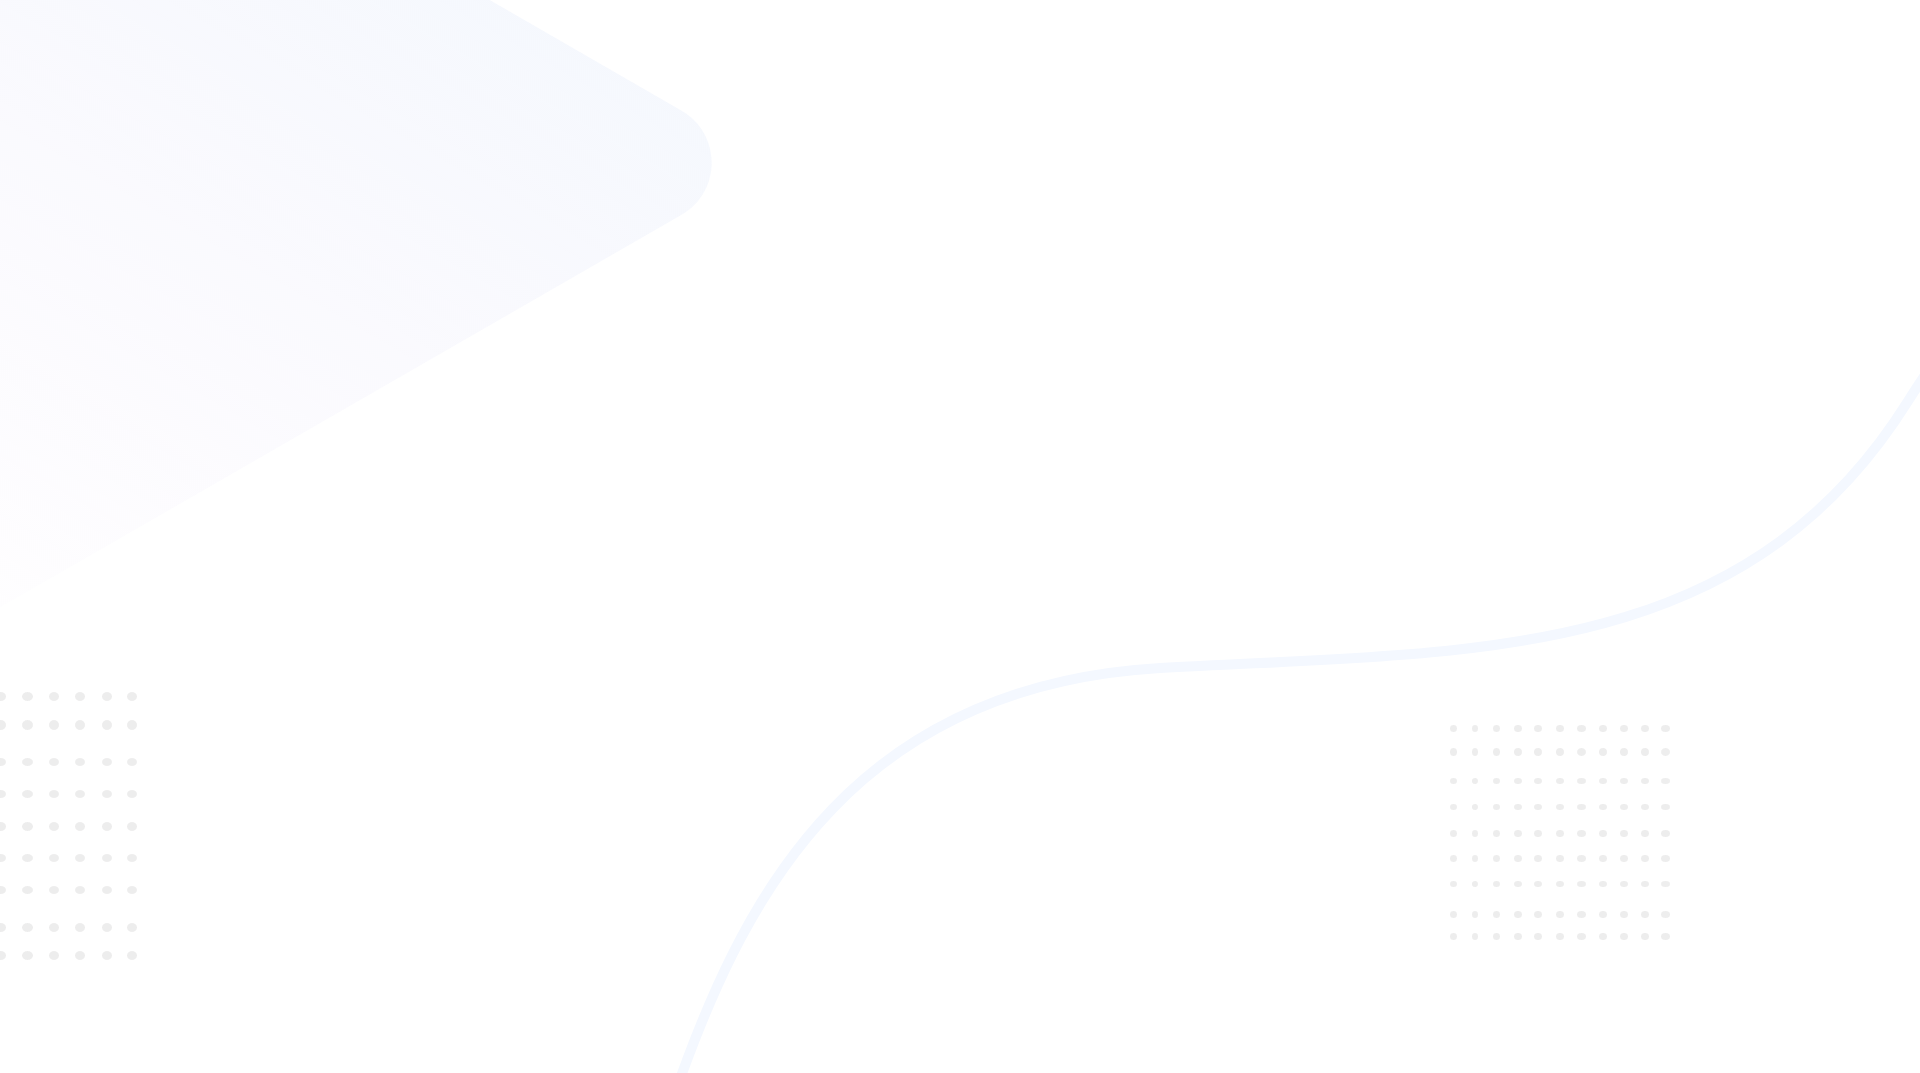
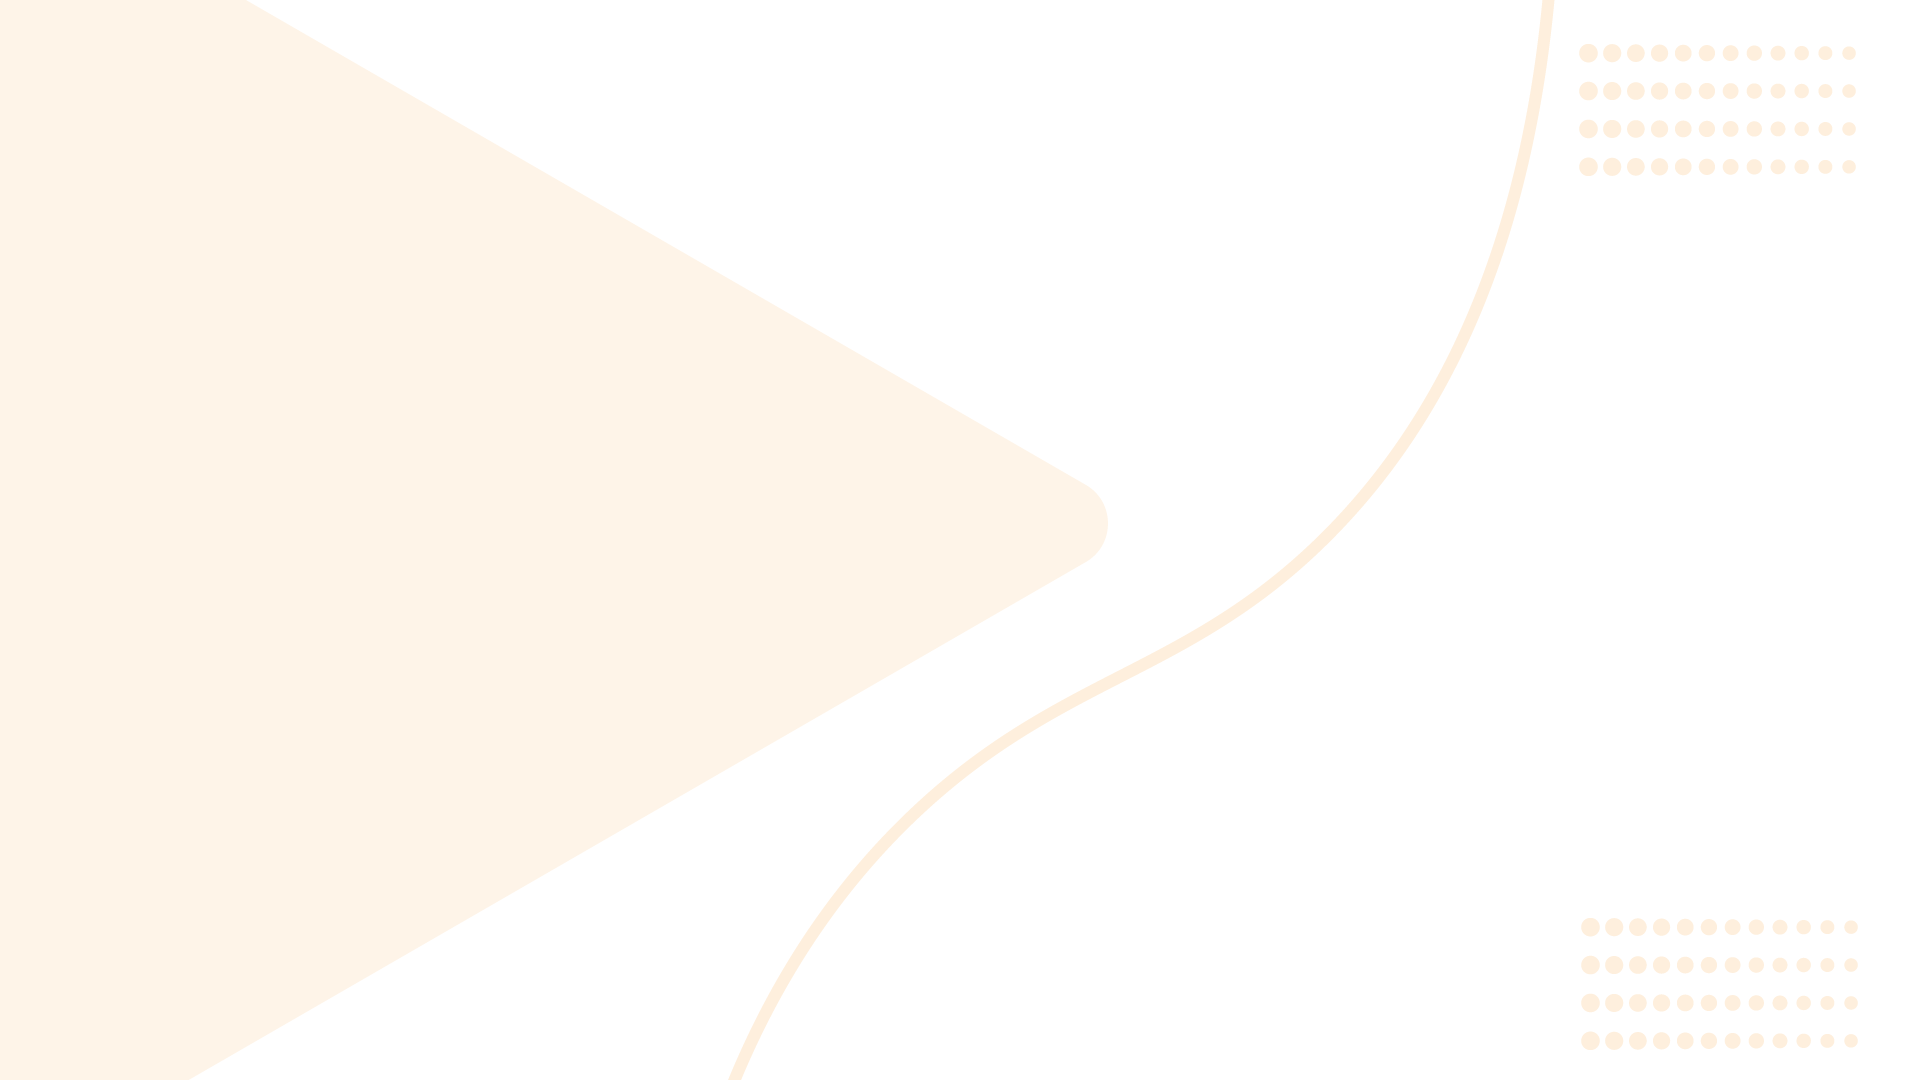
added bg and button

diff --git a/index.html b/index.html
@@ -11,22 +11,21 @@
 <link href="https://fonts.googleapis.com/css2?family=Roboto&display=swap" rel="stylesheet">
 </head>
 <body>
-    <header>
-        <div class="header">
+    <header class="header-bg">
+        <div class="header1">
             
             <h1>Welcome To</h1>
             <h1> <span class="name-highlight">Mueid's</span> Website</h1>
             <h3>No class unprofessional try hard web dev</h3>
-            <P>Hello, I am trying hard to be a web devloper. Previously I learned graphic design but I wanted to be a little extra, So now I am trying hard to be a web devloper and a progammer. I will not rest until i become a programmer</P>
+            <P>Hello, I am trying hard to be a web devloper. Previously I learned graphic design but I wanted to be a little extra, so now I am trying  to be a web devloper and a progammer. I will not rest until i become a programmer. I have to keep trying until i get there.</P><br>
+            <a class="link-button" target="_blank" href="https://www.facebook.com/phy.sco.54966">HIRE ME</a>
 
         </div>
-        <div class="header">
-            <img src="images/me2.png" alt="a photo of me">
+
+        <div class="header1">
+            <img src="images/me2.png" alt="a photo of mueid">
         </div>
         
-
-
     </header>
-    
 </body>
 </html>

diff --git a/style.css b/style.css
@@ -1,7 +1,7 @@
-
-body,html{
+body{
+    margin: 0;
+    padding: 0;
     font-family: 'Roboto', sans-serif;
-   
 }
 h1{
     font-size: 40px;
@@ -11,16 +11,27 @@ h1{
 }
 header{
     display: flex;
-    justify-content: space-evenly;
+    justify-content: space-between;
+    height: 500px;
 }
-.header{
-    width: 100%;
+.header1{
+    width: 40%;
     margin-left: 5%;
-    padding: 3%;
+    padding: 2%;
 }
-.header img{
-    width: 100%;
-    margin-left:auto;
-
-
+.header1 img{
+   width: 80%;
+   margin-bottom: auto;
+}
+.header-bg{
+    background-image: url(images/header-bg.png);
+    background-repeat: no-repeat;
+}
+.link-button{
+    text-decoration: none;
+    background-image: linear-gradient(90deg,lightsalmon, tomato);
+    padding: 10px 20px;
+    border-radius: 10px;
+    font-weight: 700;
+    color: #fff;
 }
